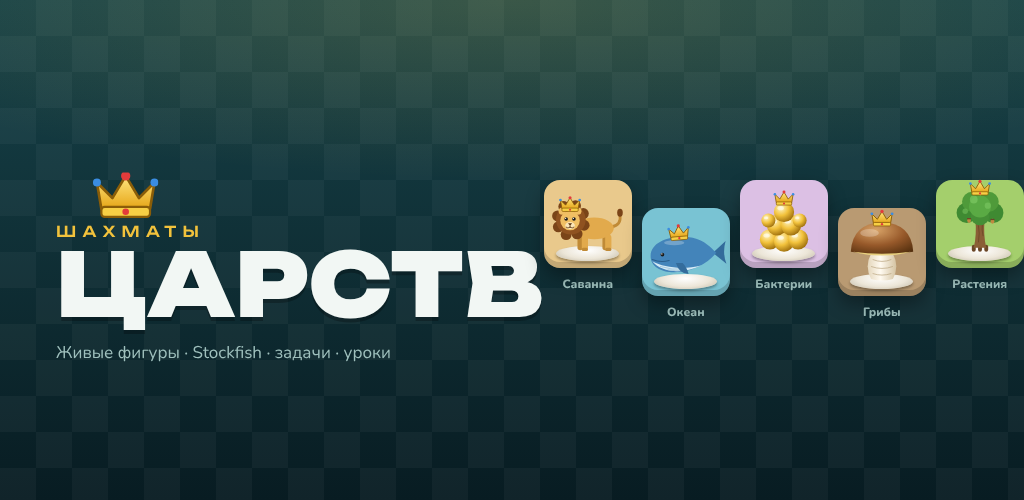
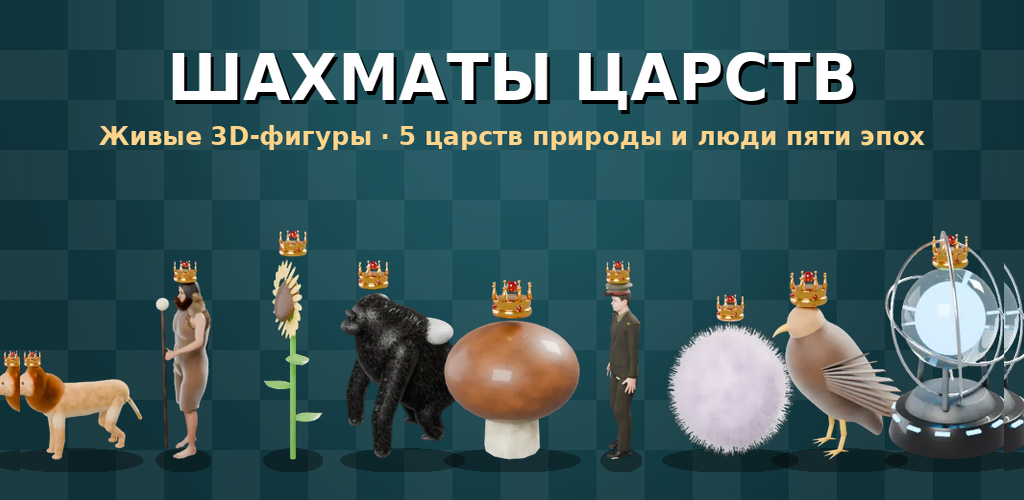
Chess: Google Play release materials
- twa-manifest for the new site richerdsuper-pixel.github.io/kingdoms-chess,
  package uz.kingdomschess.game, Play Billing, minSdk 24
- assetlinks.json with the upload key fingerprint (app signing key to add)
- New 1080x1920 screenshots and feature graphic with the realistic pieces,
  rewritten listing texts (ru/uz/en), rating/data-safety answers
- Privacy policy: profile photo stays on the device, purchases via Google Play
- PLAY.md: step-by-step publishing guide

Claude-Session: https://claude.ai/code/session_018gFW8wfQzPpShdMagJUTx9

diff --git a/docs/chess/privacy.html b/docs/chess/privacy.html
@@ -16,11 +16,15 @@ hr { border: 0; border-top: 1px solid #d5e0dc; margin: 36px 0; }
 <body>
 <main>
 <h1>Политика конфиденциальности</h1>
-<p class="sub">Приложение «Шахматы царств» · обновлено 16 ноября 2026 г.</p>
+<p class="sub">Приложение «Шахматы царств» · обновлено 23 ноября 2026 г.</p>
 <h2>Какие данные собираются</h2>
 <p>Никакие. Приложение не требует регистрации, не запрашивает имя, электронную почту, телефон, контакты, местоположение или доступ к камере и микрофону. В приложении нет рекламы, аналитики и сторонних трекеров.</p>
 <h2>Что хранится на устройстве</h2>
 <p>Только на вашем телефоне, в памяти приложения: текущая партия, настройки (язык, громкость, вибрация, тема доски), счёт побед, решённые задачи, пройденные уроки и достижения. Эти данные никуда не отправляются и удаляются вместе с приложением или при очистке его данных.</p>
+<h2>Профиль и фото</h2>
+<p>Имя, аватарка и фото профиля (если вы его выберете) хранятся только на вашем телефоне и никуда не отправляются. Фото уменьшается до 160×160 точек и хранится в памяти приложения.</p>
+<h2>Покупки</h2>
+<p>Покупки за деньги проходят через Google Play. Платёжные данные обрабатывает Google; разработчик их не видит и не хранит. Приложение получает от Google Play только список купленных товаров, чтобы открыть их в игре.</p>
 <h2>Интернет</h2>
 <p>Приложение работает без интернета. Сеть нужна только для установки и обновления.</p>
 <h2>Уведомления</h2>
@@ -33,11 +37,15 @@ hr { border: 0; border-top: 1px solid #d5e0dc; margin: 36px 0; }
 <hr>
 
 <h1>Maxfiylik siyosati</h1>
-<p class="sub">«Saltanatlar shaxmati» ilovasi · 2026-yil 16-noyabrda yangilangan</p>
+<p class="sub">«Saltanatlar shaxmati» ilovasi · 2026-yil 23-noyabrda yangilangan</p>
 <h2>Qanday ma’lumotlar yig‘iladi</h2>
 <p>Hech qanday. Ilova ro‘yxatdan o‘tishni talab qilmaydi, ism, elektron pochta, telefon, kontaktlar, joylashuv, kamera yoki mikrofonga ruxsat so‘ramaydi. Ilovada reklama, analitika va tashqi kuzatuvchilar yo‘q.</p>
 <h2>Qurilmada nima saqlanadi</h2>
 <p>Faqat telefoningizda: joriy partiya, sozlamalar (til, ovoz, tebranish, taxta mavzusi), g‘alabalar hisobi, yechilgan masalalar, o‘tilgan darslar va yutuqlar. Bu ma’lumotlar hech qayerga yuborilmaydi va ilova o‘chirilganda yo‘qoladi.</p>
+<h2>Profil va rasm</h2>
+<p>Ism, avatar va profil rasmi (agar tanlasangiz) faqat telefoningizda saqlanadi va hech qayerga yuborilmaydi.</p>
+<h2>Xaridlar</h2>
+<p>Pulga xaridlar Google Play orqali amalga oshiriladi. To‘lov ma’lumotlarini Google qayta ishlaydi; dasturchi ularni ko‘rmaydi va saqlamaydi. Ilova Google Play’dan faqat sotib olingan mahsulotlar ro‘yxatini oladi.</p>
 <h2>Internet</h2>
 <p>Ilova internetsiz ishlaydi. Tarmoq faqat o‘rnatish va yangilash uchun kerak.</p>
 <h2>Bildirishnomalar</h2>
@@ -50,11 +58,15 @@ hr { border: 0; border-top: 1px solid #d5e0dc; margin: 36px 0; }
 <hr>
 
 <h1>Privacy Policy</h1>
-<p class="sub">Kingdoms Chess app · updated 16 November 2026</p>
+<p class="sub">Kingdoms Chess app · updated 23 November 2026</p>
 <h2>What data is collected</h2>
 <p>None. The app needs no account and never asks for your name, email, phone number, contacts, location, camera or microphone. There are no ads, analytics or third-party trackers.</p>
 <h2>What is stored on your device</h2>
 <p>Only on your phone, inside the app's storage: the current game, settings (language, volume, vibration, board theme), your score, solved puzzles, completed lessons and achievements. This data is never sent anywhere and is deleted with the app or when you clear its data.</p>
+<h2>Profile and photo</h2>
+<p>Your name, avatar and profile photo (if you choose one) are stored only on your phone and are never sent anywhere.</p>
+<h2>Purchases</h2>
+<p>Real-money purchases go through Google Play. Payment details are handled by Google; the developer never sees or stores them. The app only receives the list of purchased items from Google Play to unlock them in the game.</p>
 <h2>Internet</h2>
 <p>The app works offline. A connection is only needed to install and update it.</p>
 <h2>Notifications</h2>

diff --git a/docs/chess/store/LISTING.md b/docs/chess/store/LISTING.md
@@ -6,75 +6,110 @@
 - en: Kingdoms Chess
 
 ## Краткое описание (до 80 символов)
-- ru: Живые шахматы: звери, рыбы, грибы и растения. Stockfish, задачи, уроки.
-- uz: Jonli shaxmat: hayvonlar, baliqlar, qo‘ziqorinlar. Stockfish, masalalar, darslar.
-- en: Living chess: animals, fish, fungi and plants. Stockfish, puzzles, lessons.
+- ru: Шахматы с живыми 3D-фигурами: звери, растения, грибы, микробы и люди
+- uz: Jonli 3D donali shaxmat: hayvonlar, o‘simliklar, mikroblar va odamlar
+- en: Chess with living 3D pieces: animals, plants, fungi, microbes and people
 
 ## Полное описание (до 4000 символов)
 
 ### ru
-Шахматы, в которых фигуры живые. Лев в золотой короне шагает по саванне, кит пускает фонтан, грибы уходят под землю и вырастают на новой клетке, а розы роняют лепестки. Шесть армий на выбор: Саванна, Океан, Бактерии, Грибы, Растения и классические фигуры. Правила — обычные шахматы.
+Настоящие шахматы, в которых фигуры живые. Лев в короне шагает по доске, тигр крадётся, грибы прорастают на новой клетке, вирусы плывут, а легионеры маршируют. Больше 200 реалистичных 3D-фигур — правила самые обычные шахматные.
+
+ПЯТЬ ЦАРСТВ ПРИРОДЫ И ЛЮДИ ПЯТИ ЭПОХ
+• Животные: кошачьи, приматы, птицы, киты, акулы, саванна и океан
+• Растения, грибы, бактерии и вирусы — по 5 семейств в каждом царстве
+• Люди: каменный век, железный век, промышленный век, современный век и век технологий
+• Соберите свой состав армии из фигур разных семейств одного царства
 
 ПРОТИВ КОМПЬЮТЕРА
-• Движок Stockfish, 10 уровней: от «Птенца» до «Чемпиона»
-• 3 подсказки лучшего хода на партию
-• Разбор после партии: лучшие ходы, неточности, ошибки и зевки
+• Движок Stockfish, 10 уровней — от новичка до чемпиона
+• Оценка каждого хода: идеальный, хороший, непонятный, плохой
+• Подсказки и разбор партии после игры
 
-ДЛЯ НАЧИНАЮЩИХ И ДЕТЕЙ
-• 9 уроков: как ходит каждая фигура, шах, мат, рокировка
-• Задача дня: мат в 1–2 хода, серия дней и достижения
+УЧИМСЯ ИГРАТЬ
+• Кампания из 14 глав: от первых ходов до мата и партий великих шахматистов — Морфи, Андерсена, Фишера и Каспарова
+• Уроки для начинающих и задача дня
+• Энциклопедия армий: о каждой фигуре — кто это, размеры, где живёт и интересные факты
 
-УДОБНО
-• Ход перетаскиванием или нажатием, подсветка ходов
-• Шахматные часы: 1, 3, 5, 10 минут или без лимита
-• Отмена хода, автосохранение, игра вдвоём на одном телефоне
-• Шахматы 960, темы досок (дерево, мрамор, неон)
-• Русский, узбекский и английский языки
-• Работает без интернета, без рекламы и регистрации
+И ЕЩЁ
+• Арена: выберите победителя в битве армий
+• Анимация шага у фигур и особое поражение короля каждого царства при мате
+• Плоская или объёмная (3D) доска, доски для каждого семейства
+• Профиль с аватаркой, званиями и достижениями
+• Детский режим (по умолчанию) и взрослый режим 16+
+• Три языка: русский, узбекский, английский
+• Работает без интернета
+
+Бета-версия: скоро появится игра с друзьями онлайн и арена с живыми игроками. Спасибо, что играете и помогаете делать игру лучше!
 
 ### uz
-Donalari jonli shaxmat. Oltin tojli sher savanna bo‘ylab yuradi, kit favvora otadi, qo‘ziqorinlar yer ostiga kirib yangi katakda o‘sib chiqadi, atirgullar gulbarg to‘kadi. Oltita qo‘shin: Savanna, Okean, Bakteriyalar, Qo‘ziqorinlar, O‘simliklar va klassik donalar. Qoidalar — oddiy shaxmat.
+Donalar jonli bo‘lgan haqiqiy shaxmat. Tojli sher taxtada yuradi, yo‘lbars poylab boradi, qo‘ziqorinlar yangi katakda o‘sib chiqadi, viruslar suzadi, legionerlar saf tortadi. 200 dan ortiq realistik 3D dona — qoidalar oddiy shaxmatniki.
+
+TABIATNING BESHTA SALTANATI VA BESH DAVR ODAMLARI
+• Hayvonlar: mushuksimonlar, primatlar, qushlar, kitlar, akulalar, savanna va okean
+• O‘simliklar, qo‘ziqorinlar, bakteriyalar va viruslar — har birida 5 tadan oila
+• Odamlar: tosh davri, temir davri, sanoat davri, zamonaviy davr va texnologiyalar davri
+• Bir saltanatning turli oilalaridan o‘z qo‘shiningizni yig‘ing
 
 KOMPYUTERGA QARSHI
-• Stockfish dvigateli, 10 daraja: «Jo‘ja»dan «Chempion»gacha
-• Har partiyada 3 ta eng yaxshi yurish maslahati
-• Partiyadan keyin tahlil: eng yaxshi yurishlar, noaniqliklar, xatolar
+• Stockfish dvigateli, 10 daraja
+• Har bir yurishga baho: mukammal, yaxshi, g‘alati, yomon
+• Maslahatlar va partiya tahlili
 
-BOSHLOVCHILAR VA BOLALAR UCHUN
-• 9 ta dars: har bir dona qanday yuradi, kisht, mat, rokirovka
-• Kun masalasi: 1–2 yurishda mat, kunlar seriyasi va yutuqlar
+O‘RGANAMIZ
+• 14 bobli kampaniya: birinchi yurishlardan matgacha va buyuk shaxmatchilar partiyalari — Morfi, Andersen, Fisher, Kasparov
+• Boshlovchilar uchun darslar va kunlik masala
+• Qo‘shinlar ensiklopediyasi: har bir dona haqida ma’lumot va qiziqarli faktlar
 
-QULAY
-• Sudrab yoki bosib yurish, yurishlar ko‘rsatkichi
-• Shaxmat soati: 1, 3, 5, 10 daqiqa yoki cheklovsiz
-• Yurishni bekor qilish, avtosaqlash, bitta telefonda ikki kishi
-• Shaxmat 960, taxta mavzulari (yog‘och, marmar, neon)
-• O‘zbek, rus va ingliz tillari
-• Internetsiz, reklamasiz va ro‘yxatdan o‘tishsiz ishlaydi
+YANA
+• Arena, yurish animatsiyasi, har bir saltanat shohining o‘ziga xos mag‘lubiyati
+• Tekis yoki hajmli (3D) taxta, avatar va yutuqlar bilan profil
+• Bolalar rejimi va kattalar rejimi 16+
+• Uch til: o‘zbek, rus, ingliz. Internetsiz ishlaydi
+
+Beta versiya: tez orada do‘stlar bilan onlayn o‘yin va tirik o‘yinchilar arenasi qo‘shiladi.
 
 ### en
-Chess where the pieces are alive. A crowned lion walks the savanna, a whale spouts, mushrooms sink underground and grow on a new square, roses drop petals. Six armies to choose from: Savanna, Ocean, Bacteria, Fungi, Plants and classic pieces. The rules are standard chess.
+Real chess where the pieces are alive. A crowned lion walks across the board, a tiger stalks, mushrooms sprout on a new square, viruses float and legionaries march. Over 200 realistic 3D pieces — and the rules are ordinary chess.
+
+FIVE KINGDOMS OF NATURE AND PEOPLE OF FIVE AGES
+• Animals: cats, primates, birds, whales, sharks, savanna and ocean
+• Plants, fungi, bacteria and viruses — five families in each kingdom
+• People: Stone Age, Iron Age, Industrial Age, Modern Age and Age of Technology
+• Build your own army from pieces of different families of one kingdom
 
 AGAINST THE COMPUTER
-• Stockfish engine, 10 levels from Hatchling to Champion
-• 3 best-move hints per game
-• Post-game review: best moves, inaccuracies, mistakes and blunders
+• Stockfish engine with 10 levels, from beginner to champion
+• Every move rated: perfect, good, dubious or bad
+• Hints and a post-game review
 
-FOR BEGINNERS AND KIDS
-• 9 lessons: how every piece moves, check, checkmate, castling
-• Daily puzzle: mate in 1–2, streaks and achievements
+LEARN TO PLAY
+• A 14-chapter campaign: from first moves to checkmate and games of the greats — Morphy, Anderssen, Fischer and Kasparov
+• Lessons for beginners and a daily puzzle
+• An army encyclopedia with size, habitat and fun facts for every piece
 
-CONVENIENT
-• Drag or tap to move, move highlights
-• Chess clock: 1, 3, 5, 10 minutes or unlimited
-• Undo, autosave, two players on one phone
-• Chess960, board themes (wood, marble, neon)
-• Russian, Uzbek and English
-• Works offline, no ads, no sign-up
+AND MORE
+• Arena battles, walking animations and a unique defeat for every kingdom's king
+• Flat or 3D board, boards for every family, a profile with avatar and achievements
+• Kids mode by default and an optional 16+ mode
+• Three languages: English, Russian and Uzbek. Works offline
 
-## Прочее
-- Категория: Игры → Настольные
-- Возраст: для всех (контент без насилия; анкета IARC — «нет» на все вопросы)
-- Политика конфиденциальности: https://richerdsuper-pixel.github.io/ovabmk-companion/chess/privacy.html
-- Контакт: richerdsuper@gmail.com
-- Лицензия движка: Stockfish распространяется по GPL-3.0, исходный код игры открыт в этом репозитории (требование лицензии выполнено).
+Beta: online games with friends and an arena with real players are coming soon.
+
+## Категория и теги
+- Категория: Игры → Настольные (Board)
+- Теги: шахматы, обучение, головоломки
+
+## Возрастной рейтинг (анкета IARC)
+- Насилие: «фантастическое/мультяшное» — фигуры «съедают» друг друга; кровь — только в необязательном взрослом режиме (по умолчанию выключен) → отметить «кровь: да, необязательная, слабая».
+- Покупки внутри приложения: да (Google Play). Реклама: нет. Обмен данными с пользователями: нет. Местоположение: нет.
+
+## Безопасность данных (Data safety)
+- Сбор данных: нет. Передача третьим лицам: нет.
+- Платежи обрабатывает Google Play (это не считается сбором данных приложением).
+- Политика: https://richerdsuper-pixel.github.io/kingdoms-chess/privacy.html
+
+## Графика
+- Значок 512×512: `../icon-512.png`
+- Баннер 1024×500: `feature-graphic.png`
+- Скриншоты телефона 1080×1920: `screenshots/01…06`

diff --git a/docs/chess/store/PLAY.md b/docs/chess/store/PLAY.md
@@ -1,56 +1,58 @@
-# Как выпустить «Шахматы царств» в Google Play
+# Публикация «Шахмат царств» в Google Play
 
-Игра — веб-приложение (PWA). В Google Play она попадает как Trusted Web Activity:
-маленькое Android-приложение, которое открывает сайт игры на весь экран без адресной строки.
-Google Play принимает только формат AAB; его собирает Bubblewrap.
+Готовый подписанный файл приложения: **kingdoms-chess-1.0.0.aab** (выдан отдельно вместе с ключом загрузки
+`kingdomschess-upload.jks` и паролем). Пакет: `uz.kingdomschess.game`, версия 1.0.0 (код 1), Android 7.0+.
+Приложение — Trusted Web Activity: открывает сайт игры `https://richerdsuper-pixel.github.io/kingdoms-chess/`
+на весь экран, с оплатой через Google Play.
 
-## 1. Опубликовать сайт
-1. Влить ветку в основную. GitHub Pages соберёт `docs/`, игра откроется по адресу
-   https://richerdsuper-pixel.github.io/ovabmk-companion/chess/
-2. Проверить на телефоне в Chrome: меню → «Установить приложение», игра работает без интернета.
+> ⚠ Ключ загрузки и пароль храните в надёжном месте (облако + флешка). Без них нельзя выпускать обновления
+> (Google может сбросить ключ загрузки по запросу, но это занимает дни). В репозиторий их не кладите.
 
-## 2. Собрать AAB (на своём компьютере, один раз)
-Нужны Node.js 18+ и JDK 17 (Bubblewrap сам предложит скачать JDK и Android SDK).
+## 1. Сайт игры (GitHub Pages)
+1. Создайте на GitHub **публичный** репозиторий `kingdoms-chess` (пустой).
+2. Скопируйте в его корень содержимое папки `docs/chess/` (кроме `store/`): `index.html`, `manifest.webmanifest`,
+   `sw.js`, `icon-*.png`, `privacy.html`, папки `engine/` и `units/`.
+3. Settings → Pages → Source: «Deploy from a branch», ветка `main`, папка `/ (root)`.
+   Через пару минут игра откроется по адресу `https://richerdsuper-pixel.github.io/kingdoms-chess/`.
 
-```bash
-npm i -g @bubblewrap/cli
-mkdir kingdoms-chess && cd kingdoms-chess
-cp /путь/к/репозиторию/docs/chess/store/twa-manifest.json .
-bubblewrap build
-```
-При первой сборке Bubblewrap создаст ключ подписи `android.keystore` — спросит пароль и данные.
-**Сохраните файл ключа и пароль: без них нельзя будет выпускать обновления.**
+## 2. Файл подтверждения домена (чтобы не было адресной строки)
+Android проверяет файл `https://richerdsuper-pixel.github.io/.well-known/assetlinks.json` — он должен лежать
+в корне домена, то есть в репозитории **`richerdsuper-pixel.github.io`**:
+1. Создайте публичный репозиторий `richerdsuper-pixel.github.io`, включите Pages (ветка `main`, `/ (root)`).
+2. Положите туда `.well-known/assetlinks.json` (образец — `docs/.well-known/assetlinks.json`) и пустой файл `.nojekyll`
+   (иначе GitHub не отдаёт папки с точкой).
+3. После первой загрузки AAB в Play Console откройте «Тестирование и выпуск → Настройки → Подпись приложений»,
+   скопируйте **SHA-256 ключа подписи приложения** и вставьте его в `assetlinks.json` вместо заглушки.
+   Отпечаток ключа загрузки (`1C:0E:8F:…:58:B6`) уже вписан.
+Пока файла нет, игра всё равно работает — просто сверху будет видна адресная строка.
 
-На выходе: `app-release-bundle.aab` (для Google Play) и `app-release-signed.apk` (для проверки на своём телефоне).
+## 3. Play Console: создать приложение
+1. «Создать приложение» → название «Шахматы царств», язык по умолчанию — русский, тип — **Игра**, **Бесплатное**.
+2. Тестирование → **Внутреннее тестирование** → создать выпуск → загрузить `kingdoms-chess-1.0.0.aab`
+   (подпись приложений Google Play — оставить включённой). Добавьте себя в тестировщики и установите по ссылке.
+3. Новые личные аккаунты (после ноября 2023 г.) обязаны пройти **закрытое тестирование: минимум 12 тестировщиков
+   14 дней подряд**, прежде чем откроется публикация для всех. Создайте закрытый трек и пригласите друзей/коллег.
 
-## 3. Связать приложение с сайтом
-Иначе в приложении останется адресная строка Chrome.
-```bash
-keytool -list -v -keystore android.keystore -alias kingdomschess | grep SHA256
-```
-Полученный отпечаток (вид `AA:BB:CC:…`) вписать в `docs/.well-known/assetlinks.json`
-вместо заглушки, закоммитить и дождаться обновления Pages. Проверка:
-https://richerdsuper-pixel.github.io/ovabmk-companion/.well-known/assetlinks.json
+## 4. Карточка в магазине
+Тексты — `LISTING.md` (ru/uz/en), значок — `../icon-512.png`, баннер — `feature-graphic.png`,
+скриншоты — `screenshots/01…06` (1080×1920). Политика конфиденциальности:
+`https://richerdsuper-pixel.github.io/kingdoms-chess/privacy.html`.
 
-## 4. Google Play Console
-1. Аккаунт разработчика: https://play.google.com/console — разовый взнос 25 $.
-2. «Создать приложение» → название «Шахматы царств», игра, бесплатно.
-3. Карточка магазина: тексты из `LISTING.md`, значок `icon-512.png`,
-   баннер `feature-graphic.png` (1024×500), скриншоты из `screenshots/` (минимум 2, у нас 6).
-4. Политика конфиденциальности: https://richerdsuper-pixel.github.io/ovabmk-companion/chess/privacy.html
-5. Анкеты: «Безопасность данных» — данные не собираются; IARC — для всех; реклама — нет.
-6. Новому личному аккаунту перед релизом нужен **закрытый тест: 12 тестировщиков 14 дней подряд**.
-   Создайте закрытое тестирование, загрузите AAB, добавьте e-mail тестировщиков, разошлите ссылку.
-7. После теста — заявка на доступ к продакшену, затем «Релиз в продакшен».
+## 5. Анкеты в Play Console
+- **Возрастной рейтинг (IARC):** игра-шахматы; насилие мультяшное (фигуры «съедают» друг друга); кровь — только
+  в необязательном взрослом режиме (по умолчанию выключен); покупки в приложении — да; реклама — нет.
+- **Целевая аудитория:** рекомендуем **13+** (с детской аудиторией действуют правила программы Families).
+- **Безопасность данных:** данные не собираются и не передаются; платежи обрабатывает Google Play.
+- **Реклама:** нет. **Доступ к приложению:** без входа, все функции доступны.
 
-## 5. Обновления
-Сайт обновляется сам при каждом пуше в основную ветку — приложение подтянет новую версию.
-AAB нужно пересобирать только если меняется значок, название или настройки в `twa-manifest.json`:
-увеличить `appVersionCode` и `appVersionName`, `bubblewrap update && bubblewrap build`.
+## 6. Обновления
+1. Обновили игру → залили файлы в репозиторий `kingdoms-chess` — игроки получат новое сразу, без обновления в Play.
+2. Новый AAB нужен только при смене значка, названия, пакета или настроек Android: увеличьте `appVersionCode`
+   в `twa-manifest.json`, пересоберите (`bubblewrap build` или Gradle `bundleRelease`) и подпишите тем же ключом.
 
-## 6. Покупки за деньги (Google Play Billing)
+## 7. Товары за деньги (Google Play Billing)
 
-В `twa-manifest.json` уже включено `"playBilling": { "enabled": true }` (нужен minSdk 23). После `bubblewrap build`
+В `twa-manifest.json` уже включено `"playBilling": { "enabled": true }` (minSdk 24). После `bubblewrap build`
 в Play Console → «Монетизация → Товары → Встроенные товары» создайте **одноразовые (non-consumable)** товары
 с такими идентификаторами — игра сама подтянет из Google Play их цены и восстановит покупки на новом телефоне.
 Покупка подтверждается библиотекой TWA после `complete('success')`.
